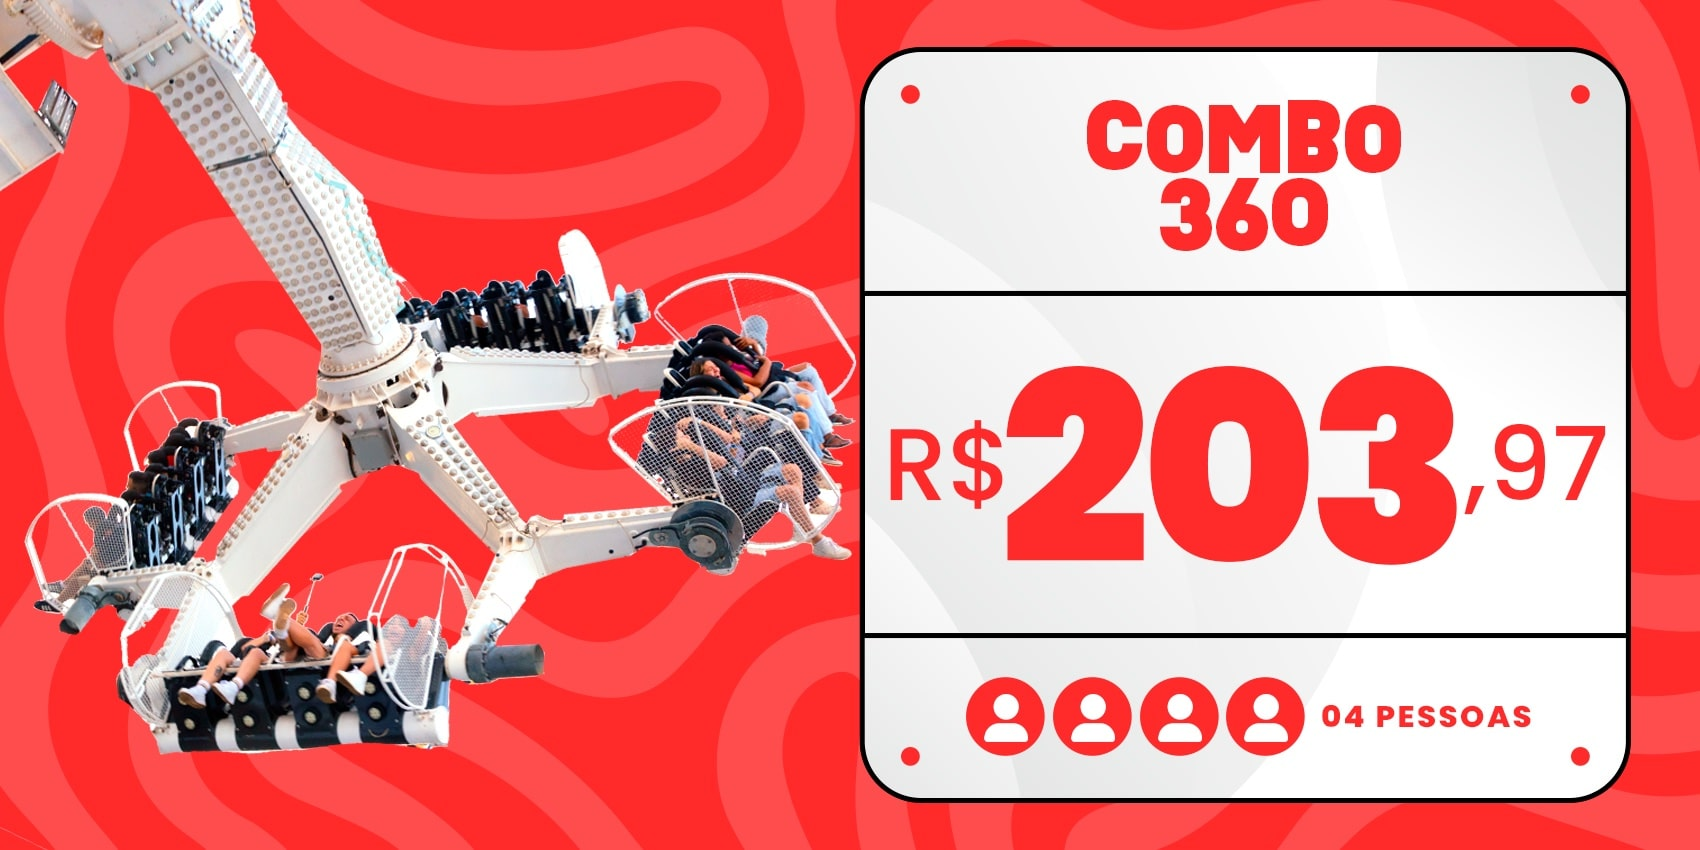
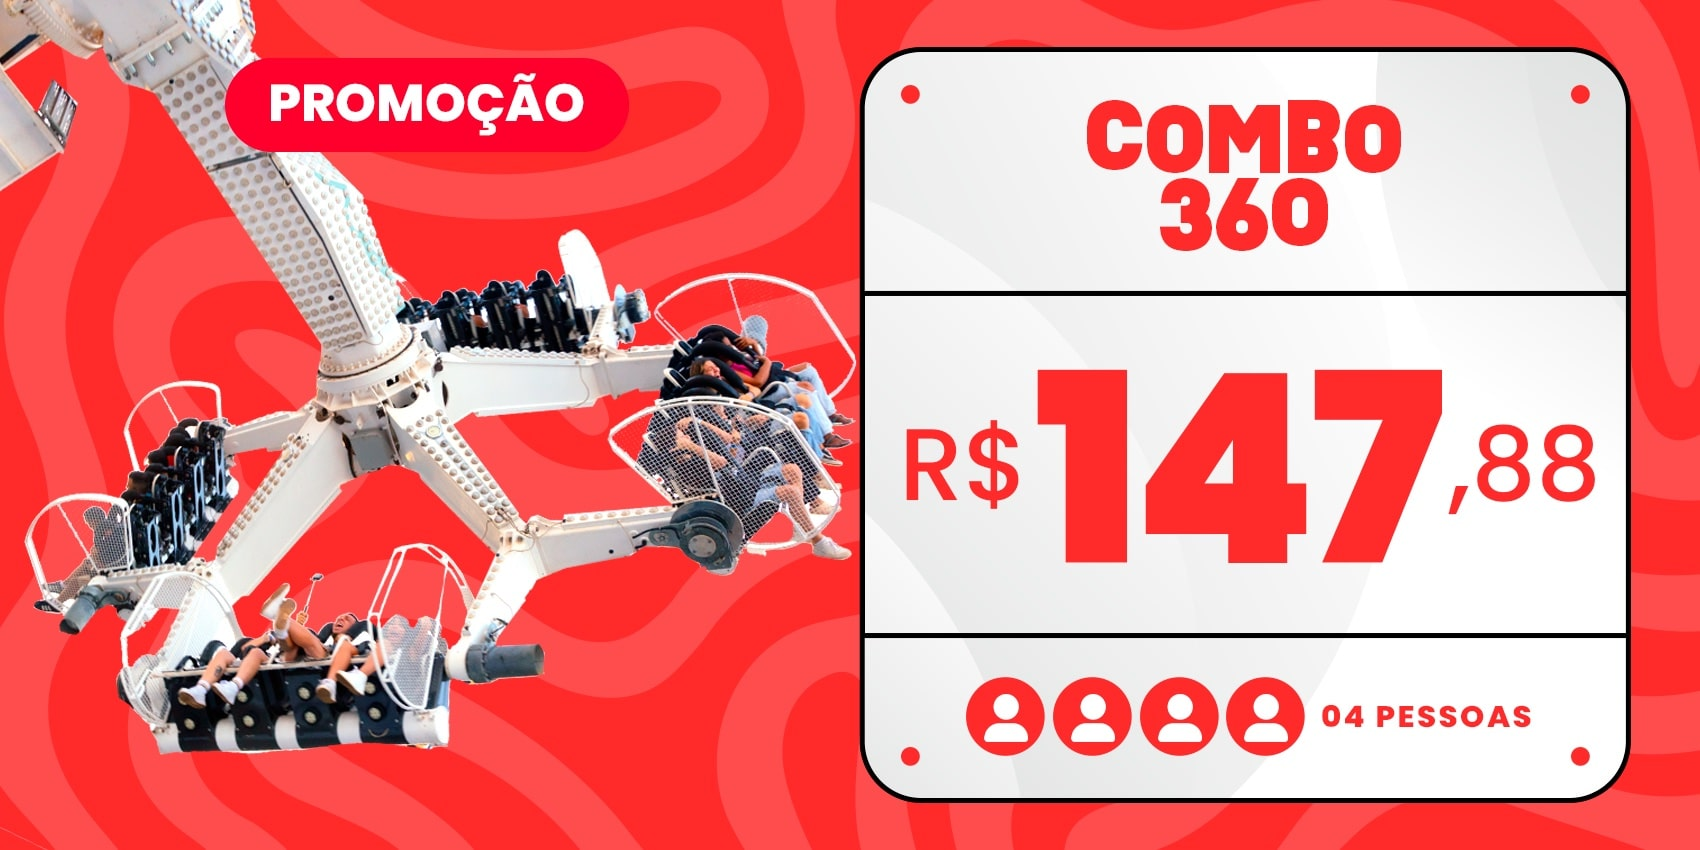
novos preços

Changed region(s): [[0.4988, 0.4282, 0.9665, 0.6729], [0.1247, 0.0612, 0.3741, 0.1835]]

diff --git a/src/pages/passaportes/index.tsx b/src/pages/passaportes/index.tsx
@@ -18,7 +18,7 @@ import ComboAntecipado from '@/public/images/tickets/combo-antecipado.jpg'
 import ComboEncantado from '@/public/images/tickets/combo-encantado.jpg'
 import ComboEspetacular from '@/public/images/tickets/combo-espetacular.jpg'
 import ComboLove from '@/public/images/tickets/combo-love.jpeg'
-import ComboSuperSegunda from '@/public/images/tickets/combo-super-segunda.jpeg'
+import ComboSuperSegunda from '@/public/images/tickets/combo-super-segunda.jpg'
 import PassaporteAntecipado from '@/public/images/tickets/passaporte-antecipado.jpg'
 import PassaporteIndividual from '@/public/images/tickets/passaporte-individual.jpg'
 import PassaporteSuperSegunda from '@/public/images/tickets/passaporte-super-segunda.jpeg'
@@ -67,9 +67,9 @@ export default function PassaportsPage() {
                 <Ticket
                   id={19}
                   isPassport
-                  price={8397}
+                  price={5994}
                   quantity={2}
-                  reference={4797}
+                  reference={null}
                   name="Combo Super Segunda"
                   banner={ComboSuperSegunda}
                 />
@@ -130,8 +130,8 @@ export default function PassaportsPage() {
                   id={17}
                   isPassport
                   quantity={3}
-                  price={14397}
-                  reference={5997}
+                  price={11091}
+                  reference={null}
                   name="Super Antecipado"
                   banner={SuperAntecipado}
                 />
@@ -171,8 +171,8 @@ export default function PassaportsPage() {
                   id={18}
                   isPassport
                   quantity={4}
-                  price={20397}
-                  reference={6667}
+                  price={14788}
+                  reference={null}
                   name="Combo 360"
                   banner={Combo360}
                 />

diff --git a/src/components/organisms/Tickets.tsx b/src/components/organisms/Tickets.tsx
@@ -3,7 +3,7 @@ import ComboAntecipado from '@/public/images/tickets/combo-antecipado.jpg'
 import ComboEncantado from '@/public/images/tickets/combo-encantado.jpg'
 import ComboEspetacular from '@/public/images/tickets/combo-espetacular.jpg'
 import ComboLove from '@/public/images/tickets/combo-love.jpeg'
-import ComboSuperSegunda from '@/public/images/tickets/combo-super-segunda.jpeg'
+import ComboSuperSegunda from '@/public/images/tickets/combo-super-segunda.jpg'
 import PassaporteAntecipado from '@/public/images/tickets/passaporte-antecipado.jpg'
 import PassaporteIndividual from '@/public/images/tickets/passaporte-individual.jpg'
 import PassaporteSuperSegunda from '@/public/images/tickets/passaporte-super-segunda.jpeg'
@@ -56,9 +56,9 @@ export default function Tickets() {
             <Ticket
               id={19}
               isPassport
-              price={8397}
+              price={5994}
               quantity={2}
-              reference={4797}
+              reference={null}
               name="Combo Super Segunda"
               banner={ComboSuperSegunda}
             />
@@ -127,8 +127,8 @@ export default function Tickets() {
               id={17}
               isPassport
               quantity={3}
-              price={14397}
-              reference={5997}
+              price={11091}
+              reference={null}
               name="Super Antecipado"
               banner={SuperAntecipado}
             />
@@ -176,8 +176,8 @@ export default function Tickets() {
               id={18}
               isPassport
               quantity={4}
-              price={20397}
-              reference={6957}
+              price={14788}
+              reference={null}
               name="Combo 360"
               banner={Combo360}
             />
